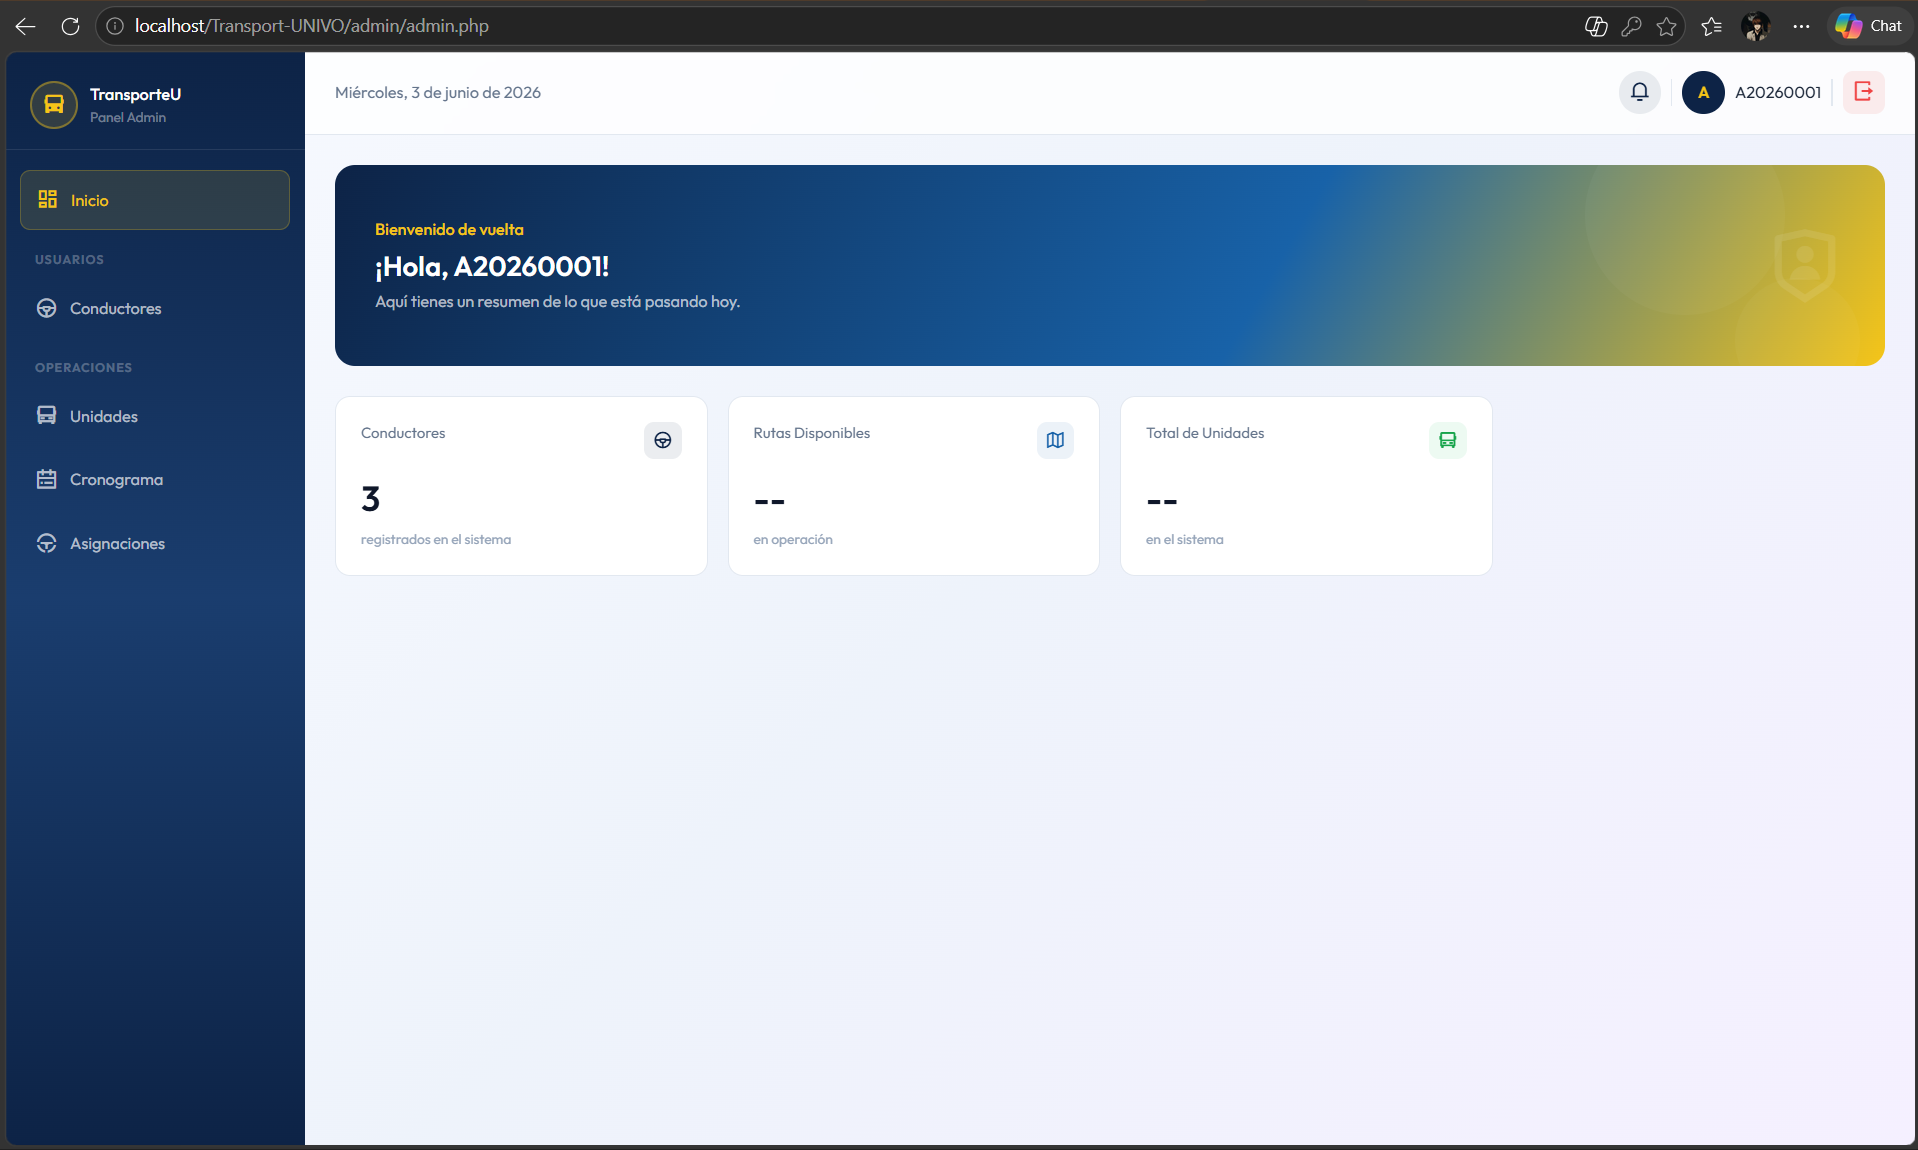
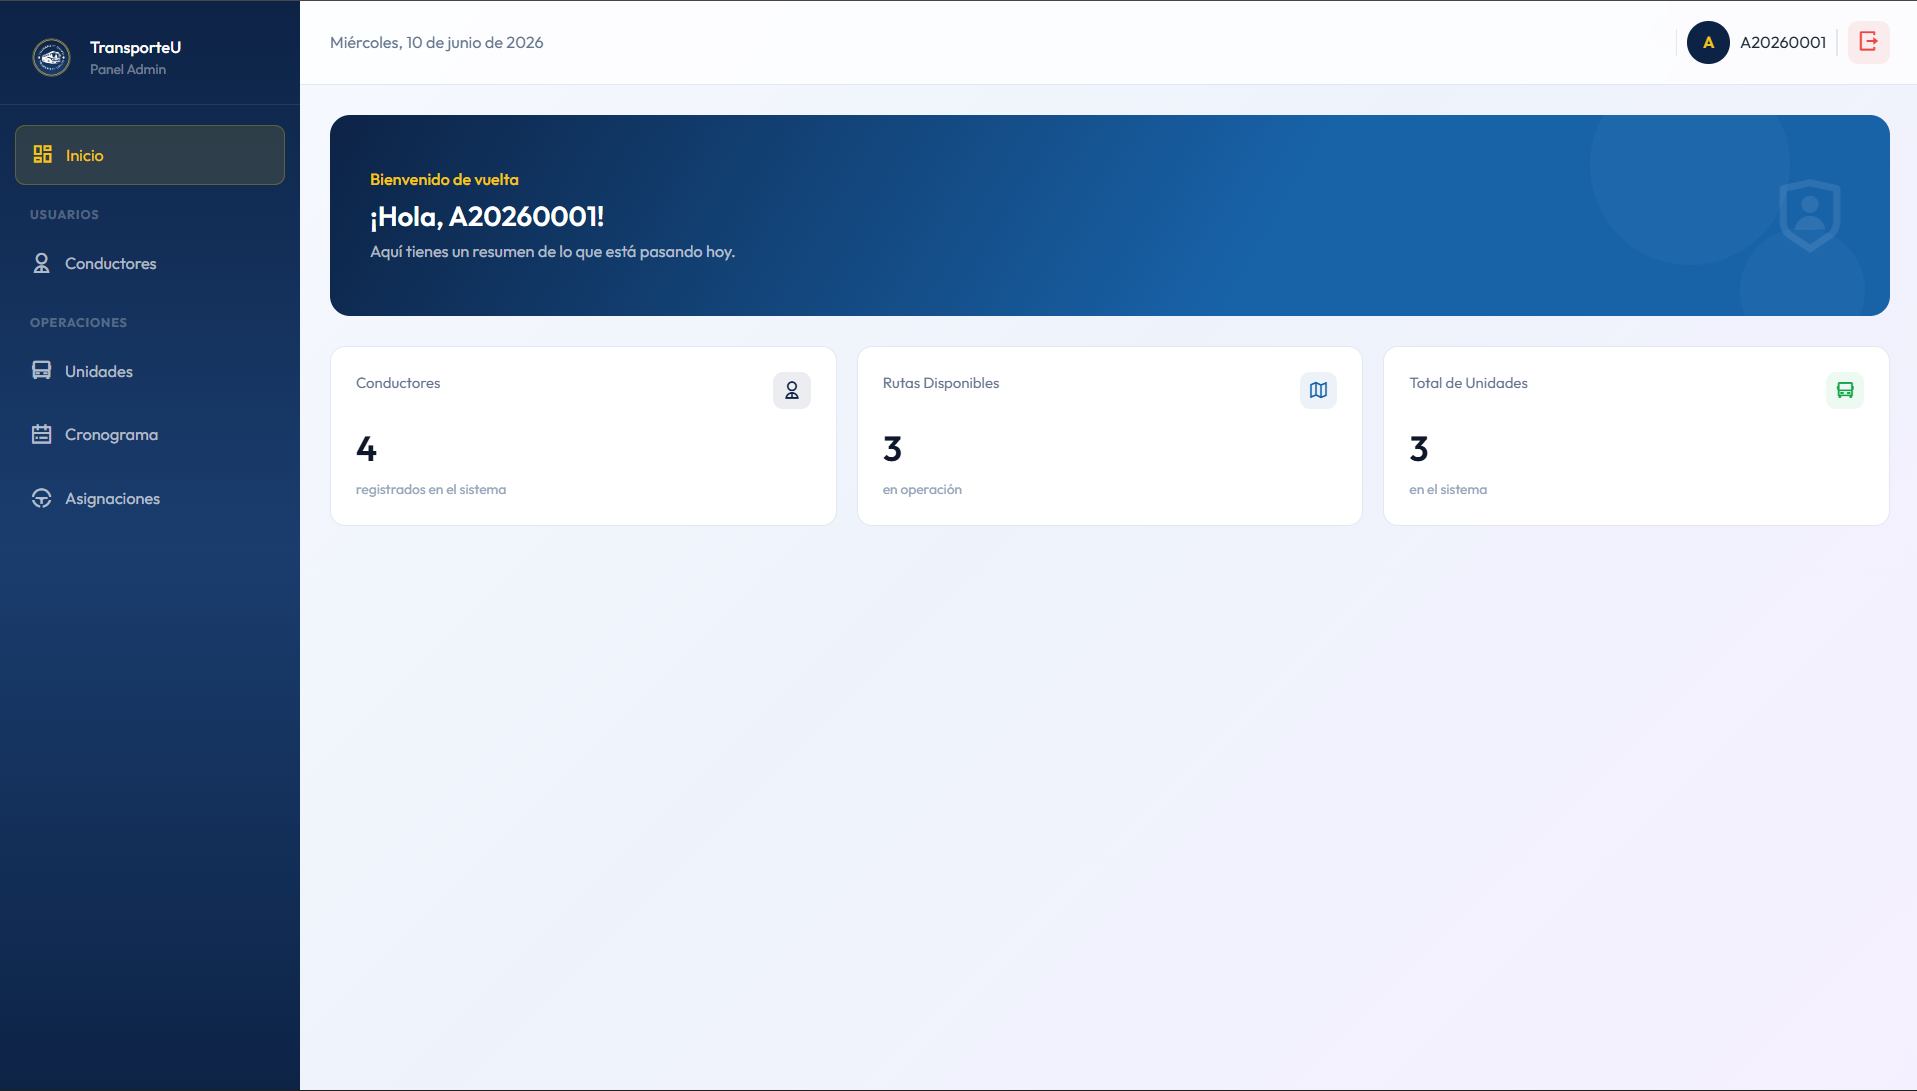
docs: Actualización de las imagenes del sistema

diff --git a/README.md b/README.md
@@ -29,6 +29,8 @@ Diseñar e implementar una plataforma web que permita gestionar y monitorear el 
 - Remix Icons → Iconografía
 - Animate.css → Animaciones del sistema
 - XAMPP → Entorno de desarrollo local
+- leaflet → Visualización de mapas interactivos y geolocalización.
+- Web Notification → Envío de notificaciones en tiempo real al navegador.
 
 ---
 
@@ -103,7 +105,7 @@ http://localhost/Transport-UNIVO/
 
 ### Pasajero
 
-- **Usuario:** U20260003
+- **Usuario:** u20260002
 - **Contraseña:** pasajeropass
 
 ---
@@ -127,6 +129,9 @@ En caso de dudas con la instalación, contactar a:
 
 ### 🚍 Panel Conductor
 ![Conductor](Evidencias/conductor.png)
+
+### 👤 Panel Pasajero
+![Pasajero](Evidencias/pasajero.png)
 
 
 ---
